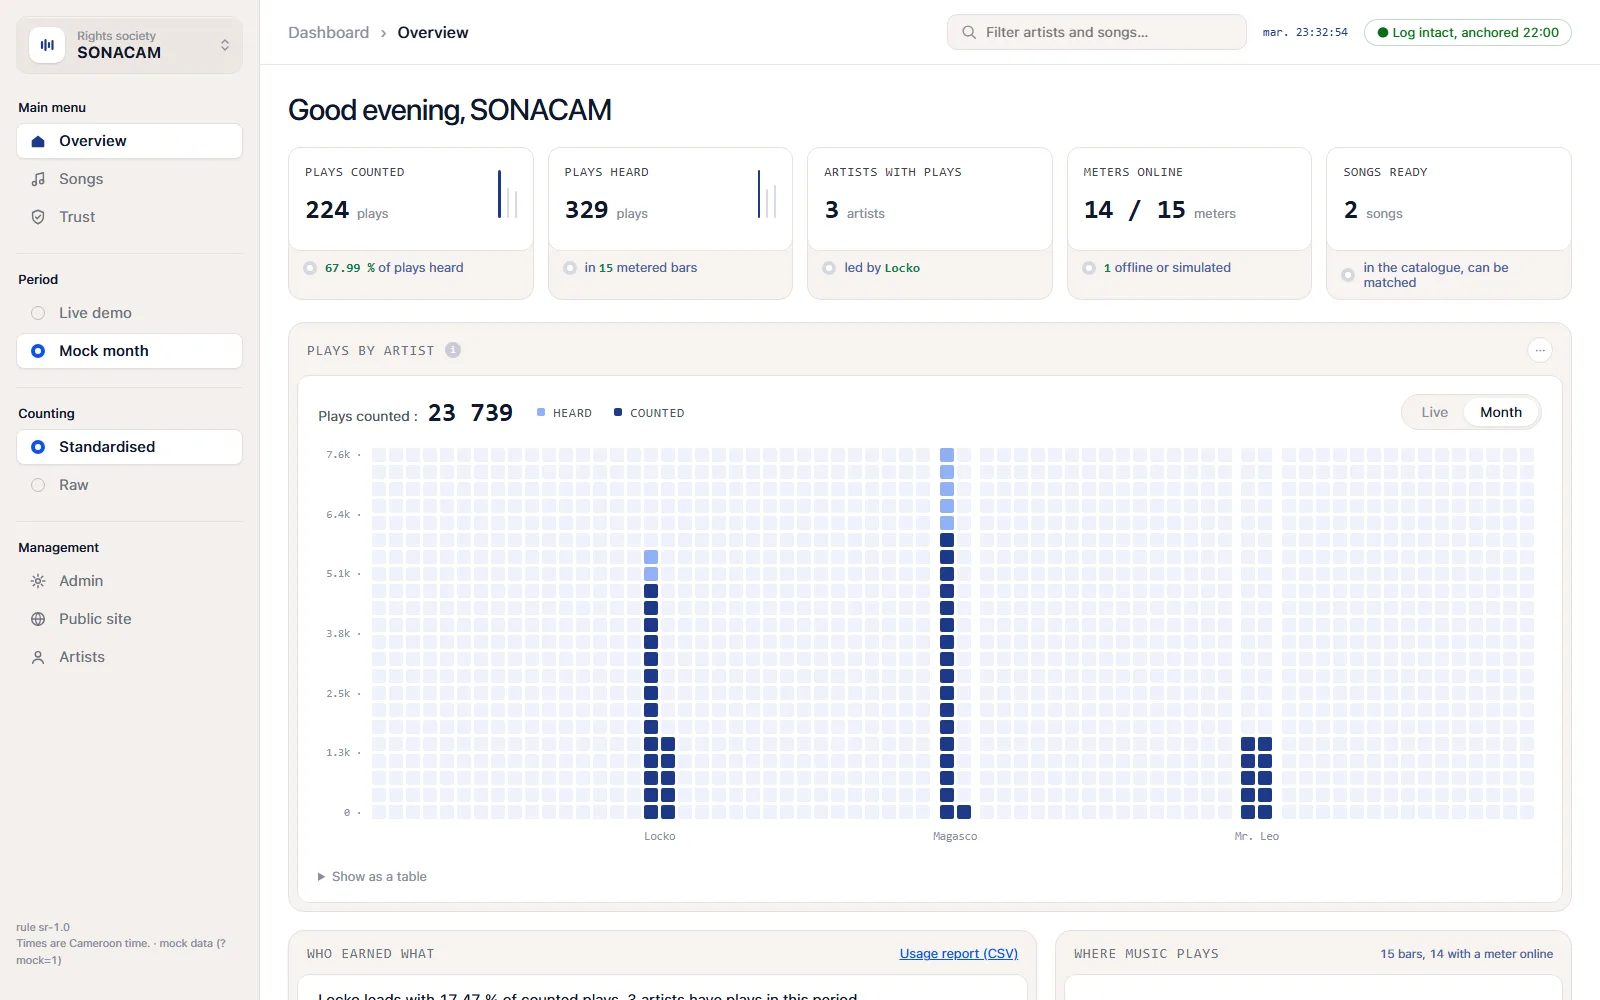
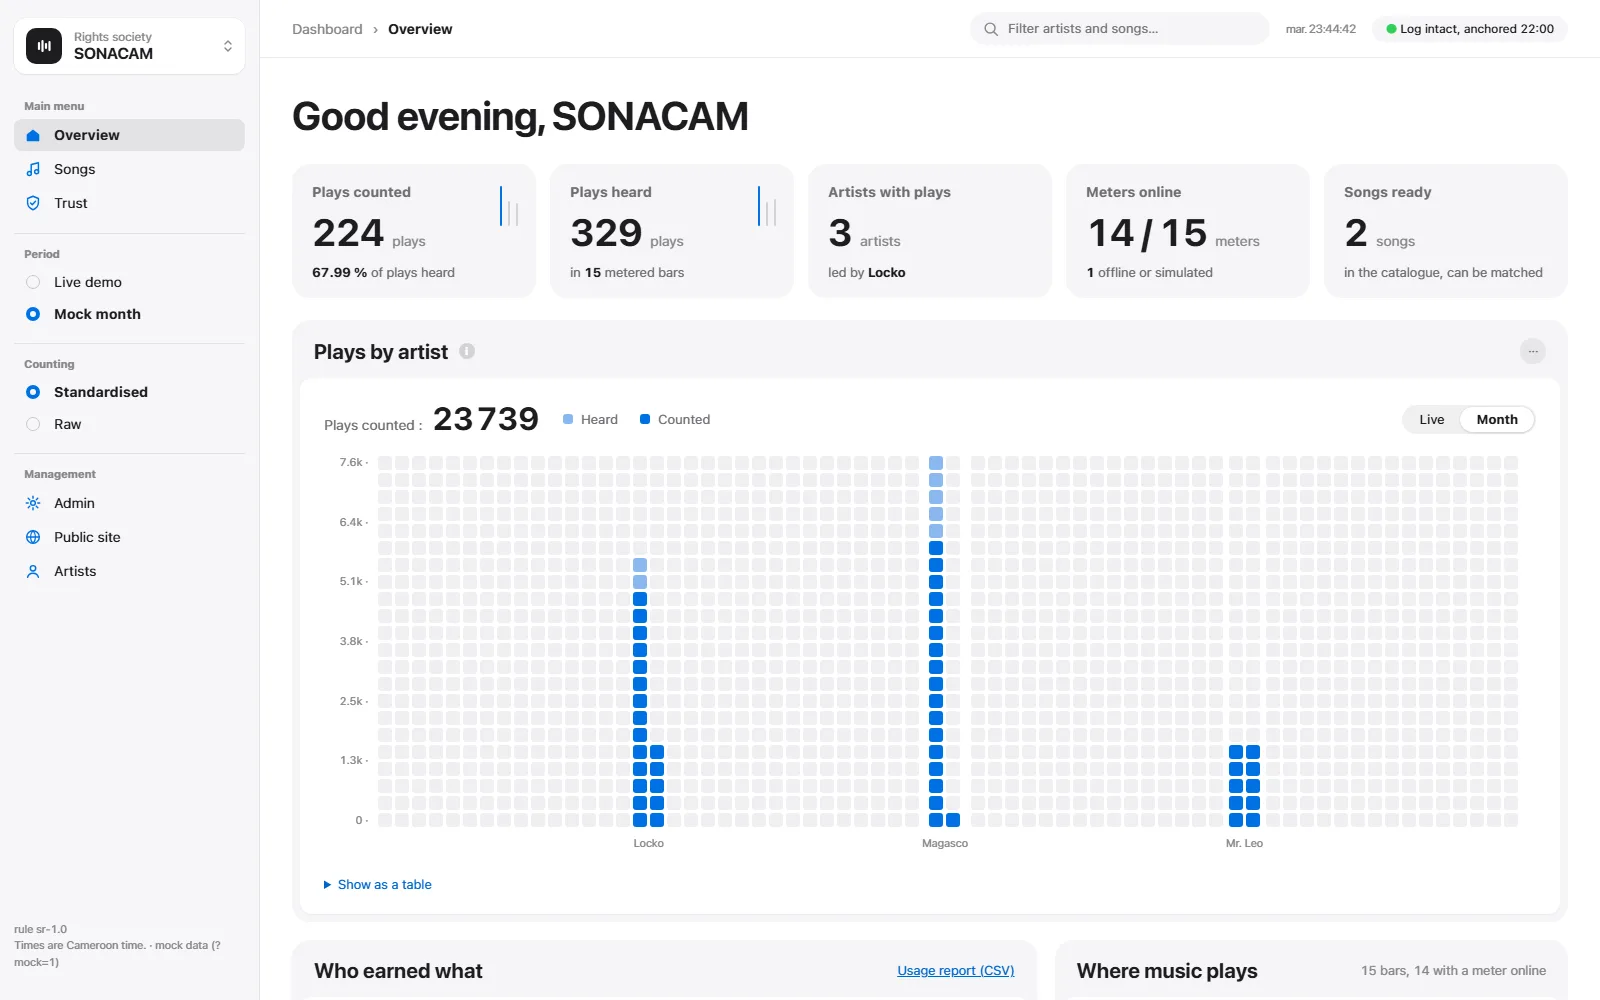
[A-HO] A-WEB site and dashboard: dashboard restyled with the landing's Apple values (source-list sidebar, #f5f5f7 cards, SF Pro figures, blue dot-matrix chart), new laptop screenshot; handoff and status for B

diff --git a/web/css/dash.css b/web/css/dash.css
@@ -1,5 +1,5 @@
-/* Dashboard layout: cream sidebar, white page, outer tinted cards holding white inner cards, monospaced figures,
-   dot-matrix chart. SONACAM colours from app.css (navy, blue, cream, orange). */
+/* Dashboard layout: sidebar, white page, outer cards holding white inner cards, dot-matrix chart.
+   The Apple layer at the end of this file sets the colours and type (same values as the landing page). */
 :root {
   --mono: "SF Mono", ui-monospace, "Cascadia Mono", "Cascadia Code", Menlo, Consolas, monospace;
   --side: #f5f0ed;
@@ -169,3 +169,116 @@ body.d2 .compare b { font-family: var(--mono); }
   .kpi-foot { padding: 8px 10px; font-size: 11.5px; }
 }
 .dots-y span { white-space: nowrap; }
+
+/* =====================================================================================================
+   Apple layer: the landing page's values carried into the dashboard.
+   #f5f5f7 / #fff / #1d1d1f, secondary #6e6e73 / #86868b, accent #0071e3, links #0066cc, 980px pills,
+   18px cards and 12px inner cards with no hard borders, SF Pro Display headings at 600, tabular figures
+   in SF Pro (no monospace), sidebar like a macOS source list.
+   ===================================================================================================== */
+body.d2 {
+  --ink: #1d1d1f; --navy: #1d1d1f; --muted: #6e6e73; --soft: #86868b; --line: #d2d2d7; --chip: #f5f5f7;
+  --teal: #0071e3; --teal-soft: rgba(0, 113, 227, .1); --orange: #bf4800; --red: #e30000; --amber: #b64400; --land: #e8e8ed;
+  --side: #f5f5f7; --outer: #f5f5f7; --edge: rgba(0, 0, 0, .08);
+  --counted: #0071e3; --heard: #8ab8f0; --empty: #f0f0f2;
+  --mono: "SF Pro Display", "SF Pro", -apple-system, BlinkMacSystemFont, "Helvetica Neue", Arial, sans-serif;
+  --display: "SF Pro Display", "SF Pro", -apple-system, BlinkMacSystemFont, "Helvetica Neue", Arial, sans-serif;
+  font-family: "SF Pro Text", "SF Pro", -apple-system, BlinkMacSystemFont, "Helvetica Neue", Arial, sans-serif;
+  letter-spacing: -.01em; background: #fff; color: var(--ink); -webkit-font-smoothing: antialiased;
+}
+body.d2 a { color: #0066cc; }
+
+/* sidebar: source list */
+body.d2 .side { background: rgba(245, 245, 247, .92); backdrop-filter: saturate(180%) blur(20px); border-right: 1px solid var(--edge); padding: 18px 14px; }
+body.d2 .org { background: #fff; border: 0; box-shadow: 0 1px 2px rgba(0,0,0,.06), 0 0 0 .5px rgba(0,0,0,.06); border-radius: 12px; }
+body.d2 .org-mark { background: #1d1d1f; color: #fff; box-shadow: none; }
+body.d2 .org b { font-family: var(--display); }
+body.d2 .side-h { font-size: 11px; font-weight: 600; color: var(--soft); text-transform: none; letter-spacing: 0; margin: 0 0 6px 10px; }
+body.d2 .side hr { border-top-color: var(--edge); margin: 14px 0; }
+body.d2 .menu button, body.d2 .menu a { font-size: 14px; color: var(--ink); border: 0; border-radius: 8px; padding: 7px 10px; }
+body.d2 .menu button svg, body.d2 .menu a svg { color: var(--teal); }
+body.d2 .menu button:hover, body.d2 .menu a:hover { background: rgba(0, 0, 0, .05); }
+body.d2 .menu button.on { background: rgba(0, 0, 0, .08); box-shadow: none; font-weight: 600; }
+body.d2 .menu.radio i { border-color: #c7c7cc; }
+body.d2 .menu.radio button.on { background: transparent; font-weight: 600; }
+body.d2 .menu.radio button.on i { border: 4.5px solid var(--teal); }
+
+/* top bar: frosted like the local nav */
+body.d2 .topbar { background: rgba(255, 255, 255, .72); backdrop-filter: saturate(180%) blur(20px); border-bottom: 1px solid var(--edge); padding: 12px 32px; }
+body.d2 .crumb { font-size: 14px; }
+body.d2 .crumb b { font-weight: 600; }
+body.d2 .search { background: #f5f5f7; border: 0; border-radius: 980px; }
+body.d2 .search input { font-size: 13px; }
+body.d2 .topbar .clock { font-family: var(--display); font-size: 12px; color: var(--soft); font-variant-numeric: tabular-nums; }
+body.d2 .topbar .ledger { border: 0; background: #f5f5f7; font-size: 12px; padding: 6px 14px; }
+body.d2 .topbar .ledger.ok { color: #1d1d1f; }
+body.d2 .topbar .ledger.ok::before { color: #30d158; }
+body.d2 .topbar .ledger.bad { background: var(--red); color: #fff; }
+
+/* page heading */
+body.d2 main { padding: 0 32px 56px; }
+body.d2 .greet { font-family: var(--display); font-size: 40px; font-weight: 600; letter-spacing: -.01em; margin: 34px 0 24px; }
+
+/* figure cards: one white card on #f5f5f7, number big, label above, line below */
+body.d2 .kpi { background: #f5f5f7; border: 0; border-radius: 18px; overflow: hidden; }
+body.d2 .kpi-in { background: #f5f5f7; border: 0; margin: 0; border-radius: 0; padding: 20px 20px 6px; min-height: 0; }
+body.d2 .kpi-in > span { font-family: inherit; text-transform: none; letter-spacing: 0; font-size: 14px; font-weight: 600; color: var(--muted); }
+body.d2 .kv { margin-top: 10px; }
+body.d2 .kv b { font-family: var(--display); font-size: 40px; font-weight: 600; letter-spacing: -.015em; font-variant-numeric: tabular-nums; }
+body.d2 .kv em { font-size: 14px; color: var(--soft); }
+body.d2 .spark i { background: #d2d2d7; }
+body.d2 .spark i.hi { background: var(--teal); }
+body.d2 .kpi-foot { padding: 4px 20px 18px; font-size: 13px; color: var(--muted); }
+body.d2 .kpi-foot i { display: none; }
+body.d2 .kpi-foot b { font-family: inherit; color: var(--ink); font-weight: 600; }
+
+/* cards: #f5f5f7 frame with the title, white content card inside */
+body.d2 .card-o { background: #f5f5f7; border: 0; border-radius: 18px; padding: 0 8px 8px; }
+body.d2 .card-o-head { padding: 18px 14px 14px; }
+body.d2 .card-o-head h2 { font-family: var(--display); font-size: 21px; font-weight: 600; letter-spacing: .004em; text-transform: none; color: var(--ink); }
+body.d2 .card-o-head .note { font-size: 13px; color: var(--soft); }
+body.d2 .info { background: #d2d2d7; font-family: inherit; }
+body.d2 .more { border: 0; background: rgba(0, 0, 0, .06); color: var(--muted); }
+body.d2 .card-i { border: 0; border-radius: 12px; box-shadow: 0 1px 2px rgba(0, 0, 0, .04); padding: 22px 24px; }
+
+/* chart header, legend, segmented control */
+body.d2 .tot { font-size: 14px; color: var(--muted); }
+body.d2 .tot b { font-family: var(--display); font-size: 32px; font-weight: 600; font-variant-numeric: tabular-nums; }
+body.d2 .lg { font-family: inherit; text-transform: none; letter-spacing: 0; font-size: 13px; color: var(--muted); }
+body.d2 .lg i { width: 10px; height: 10px; border-radius: 3px; }
+body.d2 .pill-seg { background: rgba(0, 0, 0, .06); border: 0; padding: 2px; }
+body.d2 .pill-seg button { font-size: 13px; padding: 5px 16px; color: var(--ink); }
+body.d2 .pill-seg button.on { background: #fff; box-shadow: 0 1px 3px rgba(0, 0, 0, .12), 0 0 0 .5px rgba(0, 0, 0, .04); font-weight: 600; }
+body.d2 .dots-y, body.d2 .dlabel { font-family: inherit; font-size: 11px; color: var(--soft); font-variant-numeric: tabular-nums; }
+body.d2 .dcol i { border-radius: 3px; }
+body.d2 .dot-tip { border: 0; border-radius: 12px; box-shadow: 0 12px 32px rgba(0, 0, 0, .14), 0 0 0 .5px rgba(0, 0, 0, .06); }
+body.d2 .dot-tip p:first-child { background: #f5f5f7; border-radius: 12px 12px 0 0; font-weight: 600; }
+body.d2 .dot-tip p b { font-family: var(--display); font-variant-numeric: tabular-nums; }
+body.d2 .dots-table summary { color: #0066cc; }
+
+/* tables and the rest */
+body.d2 table { font-size: 14px; }
+body.d2 th { font-weight: 600; color: var(--muted); border-bottom: 1px solid var(--line); }
+body.d2 td { border-bottom: 1px solid #f0f0f2; }
+body.d2 td.n, body.d2 th.n, body.d2 .share { font-family: inherit; font-variant-numeric: tabular-nums; }
+body.d2 .hero-line { font-family: var(--display); font-size: 19px; font-weight: 600; color: var(--ink); }
+body.d2 .compare { background: #f5f5f7; border: 0; border-radius: 12px; }
+body.d2 .compare b { font-family: inherit; color: var(--ink); }
+body.d2 .chip { background: #f5f5f7; color: var(--orange); border-radius: 980px; }
+body.d2 .dl { font-size: 13px; }
+body.d2 .live-dot { font-size: 12px; color: var(--muted); }
+body.d2 .status { border-radius: 12px; font-family: var(--display); font-weight: 600; }
+body.d2 .facts dd.mono, body.d2 td.mono { font-family: ui-monospace, "SF Mono", Menlo, Consolas, monospace; font-size: 12px; }
+body.d2 .legend { color: var(--muted); }
+@media (max-width: 820px) {
+  body.d2 .greet { font-size: 28px; margin: 22px 0 16px; }
+  body.d2 .kv b { font-size: 28px; }
+  body.d2 .topbar { padding: 10px 16px; }
+  body.d2 main { padding: 0 16px 40px; }
+  body.d2 .side { backdrop-filter: none; }
+}
+@media (min-width: 1100px) { body.d2 .kpis { grid-template-columns: repeat(5, minmax(0, 1fr)); } }
+body.d2 .kv b { font-size: clamp(28px, 2.6vw, 38px); }
+body.d2 .spark { right: 18px; top: 22px; height: 40px; }
+body.d2 .side-foot { font-weight: 400; color: var(--soft); }
+body.d2 .kv b { white-space: nowrap; } body.d2 .kv { flex-wrap: wrap; row-gap: 0; }

diff --git a/handoffs/A/2026-11-24_2346_A-WEB-site-dashboard.md b/handoffs/A/2026-11-24_2346_A-WEB-site-dashboard.md
@@ -1,0 +1,55 @@
+# Handoff A-WEB — 2026-11-24 23:46 — Person A / Laptop A
+Task: A-WEB public site, artist portal, SONACAM dashboard and admin (A-T11..A-T14, A-T17)   Status: PARTIAL (all pages built; not yet run against B)
+Contract version in use: c-1.3   fp_version: fp-1.0   Branch: a/work   Last commit: see `git log -1` (this handoff commit)
+
+## What was done (facts only)
+- Site map (all under `web/`, B serves the folder at `/`):
+  - `index.html` public landing page (no longer the dashboard): photo hero, laptop mockup with a static dashboard screenshot, dark music-product-page sections, numbers, trust chain, how it works, questions.
+  - `artist.html` "Artists", the public data pool: finder (`artist.html`) and an artist page (`artist.html?name=`).
+  - `portal.html` "Artist portal", private artist space: prototype sign-in by artist name (no password yet, R-018), activity feed, my songs, declare a song (only place to upload).
+  - `sonacam-x7k2q9.html` SONACAM dashboard (unlisted address, noindex). Rebuilt: sidebar (views, period, counting, links), filter box, five figure cards, dot-matrix "Plays by artist" chart (one column per song, dark = counted, light = heard; tooltip and table view), who earned what, map, live feed, Songs and Trust views. Apple styling (same values as the landing: #f5f5f7/#fff/#1d1d1f, accent #0071e3, 18px cards).
+  - `sonacam-x7k2q9-admin.html` admin (unchanged this session).
+- Real album covers: 134 WebP images (1.8 MB) in `web/assets/covers/` with `index.json`; used on the landing, Artists and portal pages. A cover is shown only next to its own artist (namesakes rejected, e.g. "Sabrina Claudio"). Artists without a cover keep their initials.
+- Every number shown is computed from the API (or fixtures with `?mock=1`).
+
+## Files created/changed
+- web/index.html, web/css/landing.css, web/css/mbp.css (new; laptop mockup adapted from an MIT CodePen, credited in the file), web/js/landing.js
+- web/sonacam-x7k2q9.html, web/css/dash.css (new), web/js/app.js
+- web/artist.html, web/js/artist.js, web/portal.html, web/js/me.js (new), web/js/portal.js, web/js/site.js (new), web/css/pages.css (new)
+- web/js/covers.js (new), web/assets/covers/* (new), web/assets/img/*.webp (photos, credited in the landing footer)
+
+## How to run it (exact commands, PowerShell, from repo root)
+```
+python -m http.server 8080
+# then open http://localhost:8080/web/index.html?mock=1
+#           http://localhost:8080/web/sonacam-x7k2q9.html?mock=1&period=mock_month
+```
+On B: no command; the pages are served from `web/` once B has pulled a/work.
+
+## Tests run and results (paste the summary lines)
+- `scripts\test_a.ps1` → 88 passed, 1 warning in 72.38s
+- Manual, browser, mock mode: landing, Artists, portal and dashboard at 1440×900 and 375×812; no sideways scroll; chart tooltip, period switch, filter box OK.
+
+## Decisions taken (also appended to DECISIONS.md if they affect the other side)
+- `index.html` is the public landing; the dashboard lives at `sonacam-x7k2q9.html` (R-017).
+- Album art from the iTunes Search API, stored locally so the demo works offline.
+
+## Contract impact
+- none
+
+## Known issues / risks
+- Not tested against B's live server (192.168.1.51:8000 unreachable since 12:40). Live SSE, tamper banner and real artist pages need a check on B.
+- `web/assets/covers/index.json` keys covers by artist name and title as in the catalogue; artists on B with different spellings show initials.
+- The headline font on the original design (SF Pro Plus Expanded) is not installed; SF Pro Heavy is used.
+- About 32 catalogue songs still have no cover; a research pass is running and may add a follow-up commit.
+
+## Uncommitted or local-only state
+- reports/ and research_notes/ (SONACAM research), untracked on purpose.
+- Song packages v1..v3 zips in Downloads on Laptop A only (audio, never committed).
+
+## Next action (one concrete step the next session does first)
+- B: `git fetch` and merge a/work (or receive the bundle), restart the server, open `http://192.168.1.51:8000/sonacam-x7k2q9.html` and check live plays reach the chart, map and feed.
+
+## Notes for the other side
+- B: pages changed address (R-017) and the portal sign-in is a prototype (R-018). The landing links to `artist.html` and `portal.html`; the dashboard is reachable only by its address.
+- B currently holds the 60 v1 songs; the v3 package (183 songs) is ready on Laptop A.

diff --git a/STATUS_A.md b/STATUS_A.md
@@ -1,8 +1,8 @@
-# STATUS A — updated 2026-11-24 13:10
-Current task: A-WEB dashboard restyle done (handoff A-WEB-dashboard); next A-T17 admin page
-Done: A-T00..A-T03, A-T05, A-T06, A-T08, A-T10 mock month, A-T11 dashboard (restyled 13:10), A-T12 portal, A-T13 (per D-015: shares only), A-T14 artist page, MC0, MC1 (A side)
-Next up: test dashboard against B live; A-T17 admin page; A-T15/A-T16
-Next merge checkpoint: MC2 — waiting on B being reachable
-Blockers: B server 192.168.1.51:8000 unreachable since 12:40
-Open requests to B: pull a/work to serve the new pages
-Health: scripts\test_a.ps1 -> 88 passed; dashboard checked in mock mode only
+# STATUS A — updated 2026-11-24 23:46
+Current task: A-WEB site and dashboard built (handoff 2026-11-24_2346_A-WEB-site-dashboard); handing to B to serve and test live
+Done: A-T00..A-T03, A-T05, A-T06, A-T08, A-T10 mock month, A-T11 dashboard (rebuilt, Apple style), A-T12 portal (artist portal), A-T13 (per D-015: shares only), A-T14 artist page (Artists), A-T17 admin page, public landing, album covers, MC0, MC1 (A side)
+Next up: test all pages against B live; cover research follow-up; A-T15/A-T16
+Next merge checkpoint: MC2 — waiting on B pulling a/work
+Blockers: B server 192.168.1.51:8000 unreachable since 12:40; push from Laptop A disabled (hand over by bundle or B pulls)
+Open requests to B: R-017 (page addresses), R-018 (artist login for the portal); load the v3 song package (183 songs)
+Health: scripts\test_a.ps1 -> 88 passed; pages checked in mock mode only
